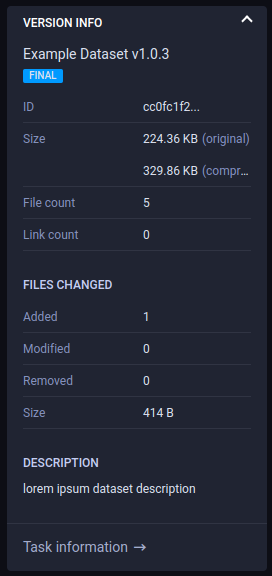
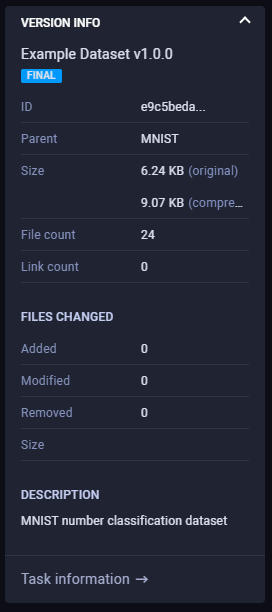
Add dataset parent display

diff --git a/docs/webapp/datasets/webapp_dataset_viewing.md b/docs/webapp/datasets/webapp_dataset_viewing.md
@@ -32,7 +32,8 @@ Each node in the graph represents a dataset version, and shows the following det
 On the right side of the dataset version panel, view the **VERSION INFO** which shows: 
 * Version name
 * Dataset ID 
-* Version file size 
+* Parent task name (click to navigate to the parent task's page)
+* Version file size (original and compressed)
 * Number of files
 * Number of links
 * Changes from previous version 
